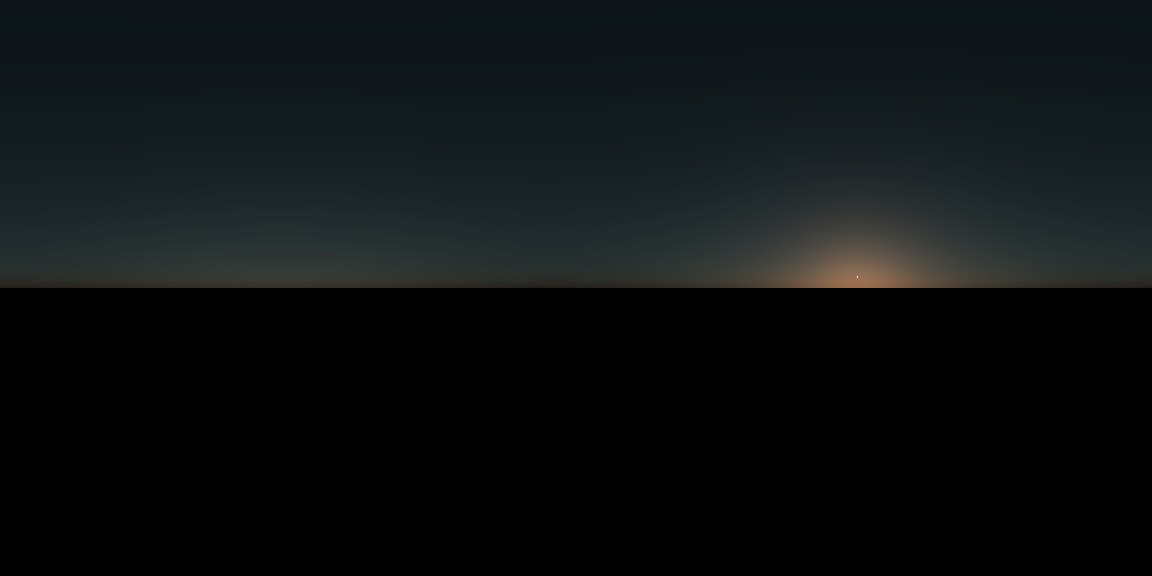
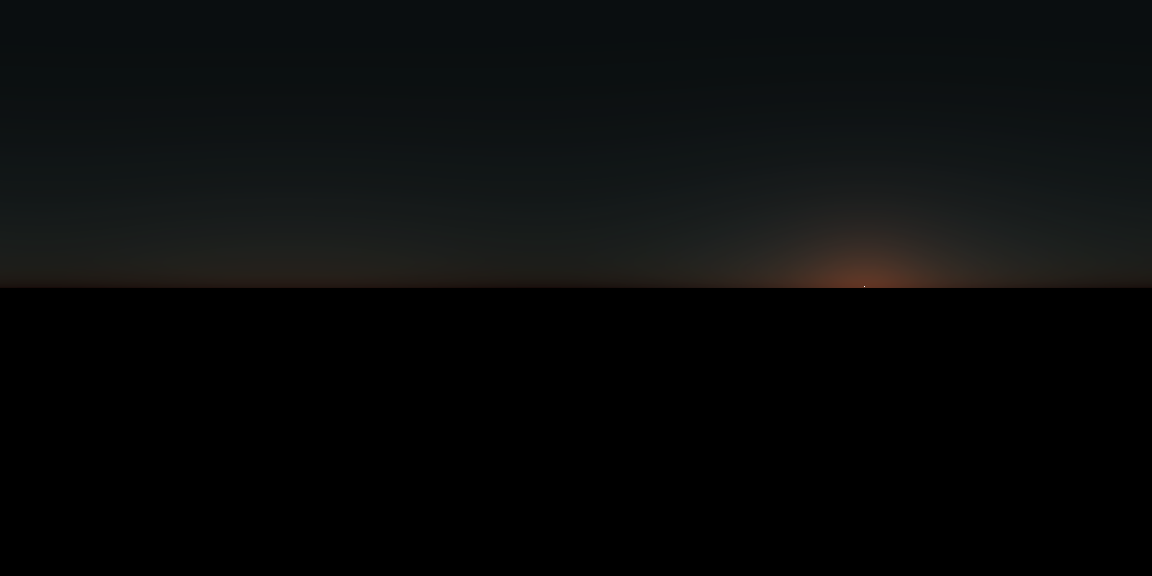
-Update README

Changed region(s): [[0.5938, 0.375, 0.875, 0.5], [0.125, 0.4375, 0.375, 0.5]]

diff --git a/README.md b/README.md
@@ -127,7 +127,7 @@ Evening in DC:
 ``` r
 env = generate_sky_latlong(
   outfile    = NA,
-  datetime   = as.POSIXct("2025-03-21 18:00:00",tz="EST"),
+  datetime   = as.POSIXct("2025-03-21 18:15:00",tz="EST"),
   lat        = 38.9072,
   lon        = -77.0369,
   resolution = 800
@@ -136,6 +136,22 @@ rayimage::plot_image(env)
 ```
 
 ![](man/figures/full_sky_evening-1.png)<!-- -->
+
+Evening in DC (Prague model):
+
+``` r
+env = generate_sky_latlong(
+  outfile    = NA,
+  datetime   = as.POSIXct("2025-03-21 18:15:00",tz="EST"),
+  lat        = 38.9072,
+  lon        = -77.0369,
+  resolution = 800,
+  hosek = FALSE
+)
+rayimage::plot_image(env)
+```
+
+![](man/figures/full_sky_evening_prague-1.png)<!-- -->
 
 Full sun + moon + stars:
 
